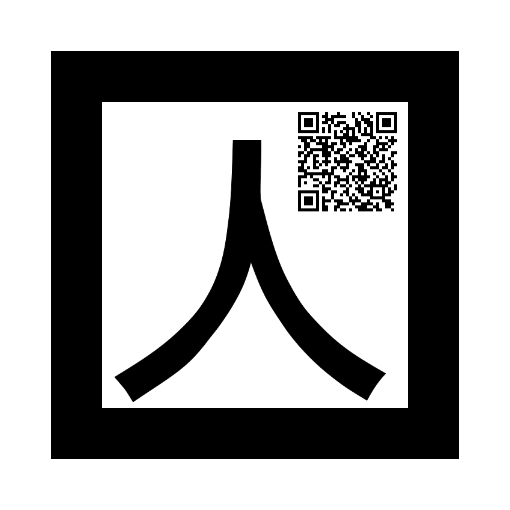
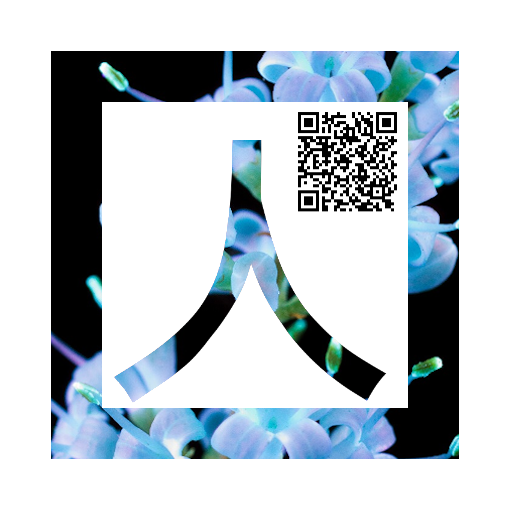
new pattern

diff --git a/README.md b/README.md
@@ -7,8 +7,6 @@ Visualize 3D models (.obj) or data using augmented reality on your mobile phone 
 
 ![](static/patterns/pattern-kanji_qr.png)
 
-QR Compatible!
-
 ## Web server
 ```python 
 python web_ar.py
